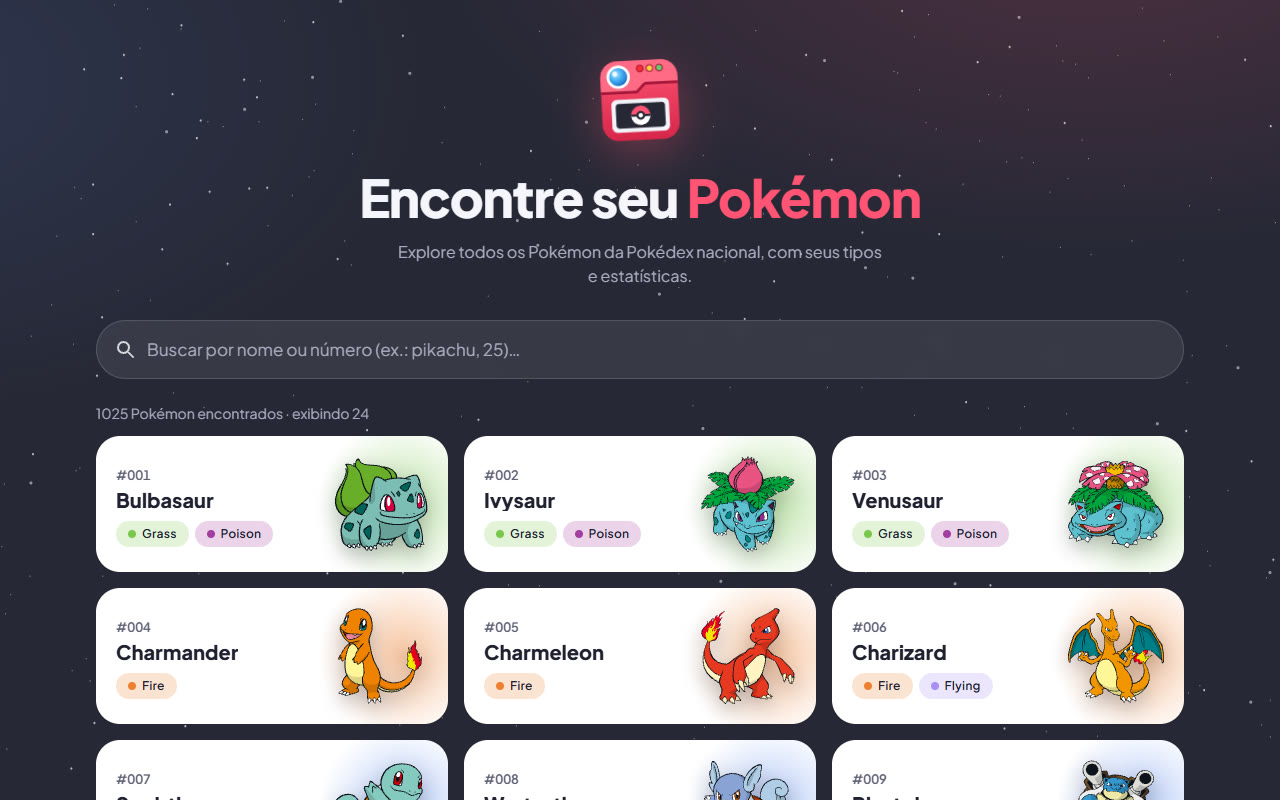
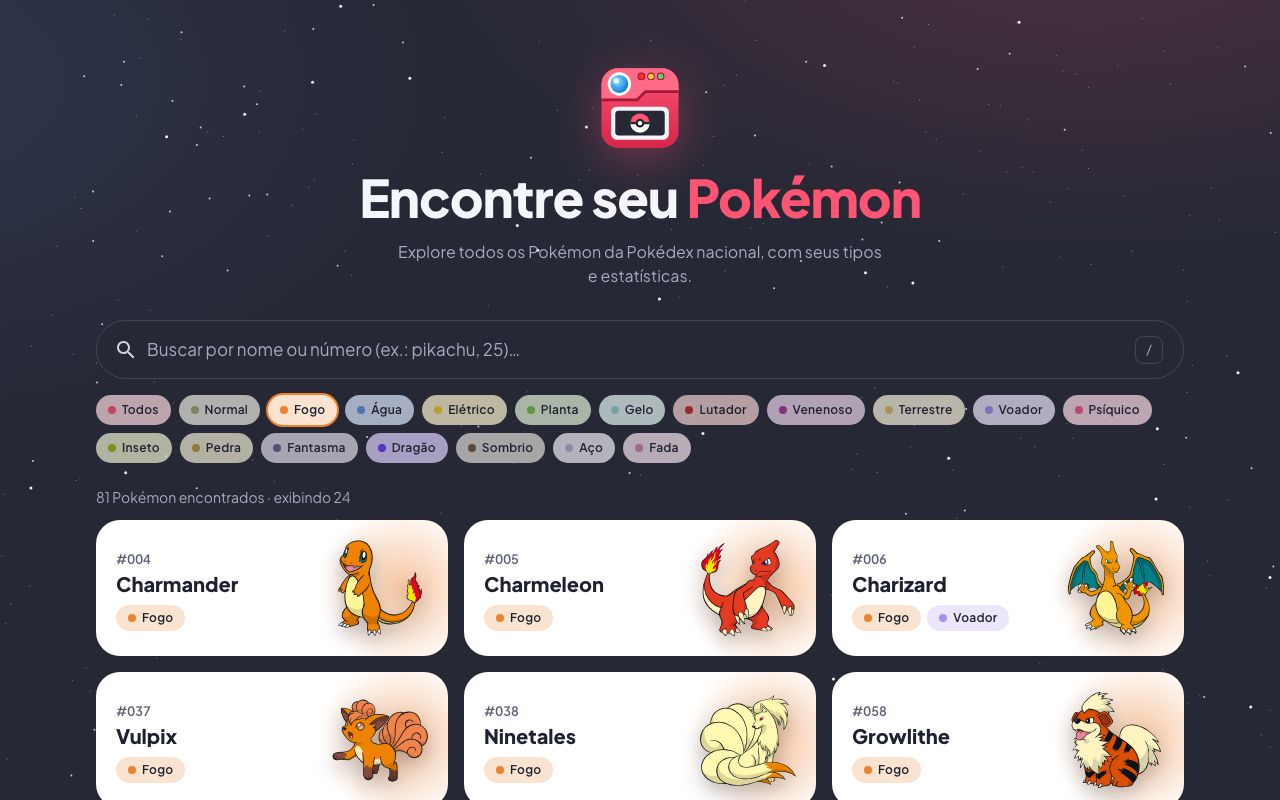
docs: describe the new features, e2e tests and Vercel deploy in the README
Also refreshes both screenshots.

diff --git a/README.md b/README.md
@@ -3,26 +3,31 @@
 
   # Pokédex
 
-  Browse every Pokémon — all 1025 of the National Pokédex — with types and base stats.<br>
+  Browse every Pokémon — all 1025 of the National Pokédex — with types, base stats and evolutions.<br>
   Built with Angular and powered by the public [PokéAPI](https://pokeapi.co/). The UI is in Portuguese (pt-BR).
 
-  **[Open the live app →](https://djbrunoramon.github.io/pokedex/)**
+  **[Open the live app →](https://pokedex.mocah.com.br/)** · [GitHub Pages mirror](https://djbrunoramon.github.io/pokedex/)
 </div>
 
 <p align="center">
-  <img src=".github/assets/home.jpg" alt="Home page: search box and a grid of Pokémon cards coloured by type, over an animated starry background" width="49%">
-  <img src=".github/assets/details.jpg" alt="Details page for Charizard: type-coloured hero with height and weight, and a panel with base stat bars" width="49%">
+  <img src=".github/assets/home.jpg" alt="Home page filtered by the Fire type: search box, a row of type filters and a grid of Pokémon cards coloured by type, over an animated starry background" width="49%">
+  <img src=".github/assets/details.jpg" alt="Details page for Charizard: previous and next buttons, type-coloured hero with height and weight, base stat bars, an About panel with category, description and abilities, and the evolution chain" width="49%">
 </p>
 
 ## Features
 
 - **Every Pokémon, with infinite scroll** — the full species index loads in one request; cards are rendered 24 at a time as you scroll, and each card fetches its own details (with a placeholder while it loads).
-- **Search across the whole Pokédex** — by name (`chu` finds Pikachu, Raichu, Pichu…) or by number (`25`, `#150`), including Pokémon that aren't on screen yet.
-- **Shareable searches** — the search lives in the URL (`?q=char`), so it survives going to a details page and back, a refresh, or a shared link.
-- **Details page** — Pokédex number, types, height and weight, and base stats with proportional bars and their total.
-- **Loading, empty and error states** everywhere, with a *retry* when the API is unreachable.
-- **Polished, accessible UI** — cards and pages coloured by type, an animated starry sky, keyboard focus styles, screen-reader labels and announcements, and `prefers-reduced-motion` support.
-- **Lean networking** — details are cached per Pokémon, requests nobody waits for are cancelled, and the search is debounced.
+- **Search across the whole Pokédex** — by name (`chu` finds Pikachu, Raichu, Pichu…) or by number (`25`, `#150`), including Pokémon that aren't on screen yet. Press <kbd>/</kbd> to jump to the search box and the × button to clear it; it stays at the top while you scroll.
+- **Forgiving search** — a typo with no exact match suggests look-alike names (`pikachuu` → *Você quis dizer:* Pikachu).
+- **Filter by type** — the 18 types, in Portuguese, combine with the search; each type on a details page links to the filtered list.
+- **Shareable state** — the search and the type live in the URL (`?q=char&tipo=fire`), so they survive a refresh or a shared link.
+- **Coming back where you left off** — *Voltar* returns to the list with the same cards loaded and the same scroll position.
+- **Details page** — Pokédex number, types, height and weight, base stats with proportional bars and their total, category, Pokédex description and abilities (hidden one marked), and a clickable evolution chain (branches such as Eevee's side by side). Previous/next buttons, also on the <kbd>←</kbd> <kbd>→</kbd> keys, browse the Pokédex.
+- **Loading, empty and error states** everywhere, with a *retry* when the API is unreachable, and a *page not found* for unknown URLs.
+- **Polished, accessible UI** — cards and pages coloured by type, an animated starry sky, keyboard focus styles, screen-reader labels and announcements, a back-to-top button, and `prefers-reduced-motion` support.
+- **Lean networking** — details, types and evolution chains are cached, requests nobody waits for are cancelled, and the search is debounced.
+
+> The PokéAPI has no Portuguese texts, so the category, description and ability names are shown in English (marked `lang="en"`). Types and stats are translated by the app.
 
 ## Tech stack
 
@@ -30,7 +35,7 @@
 - [RxJS](https://rxjs.dev/) for the HTTP layer
 - TypeScript 6 in strict mode, with typed PokéAPI responses
 - SCSS with design tokens (CSS custom properties)
-- [Vitest](https://vitest.dev/) for unit tests
+- [Vitest](https://vitest.dev/) for unit tests, [Playwright](https://playwright.dev/) for end-to-end tests
 
 ## Requirements
 
@@ -54,6 +59,7 @@ Then open `http://localhost:4200/`. The app reloads automatically when you chang
 | `npm run build`        | Production build to `dist/pokedex/browser/`                         |
 | `npm run watch`        | Incremental development build                                       |
 | `npm test`             | Run the unit tests with Vitest                                      |
+| `npm run test:e2e`     | Run the end-to-end tests with Playwright (see [Testing](#testing))  |
 | `npm run build-github` | Production build into `docs/` for GitHub Pages (see [Deployment](#deployment)) |
 
 ## Project structure
@@ -65,39 +71,63 @@ src/
 │   ├── service/         # PokeApiService — the only API layer (index, cached details)
 │   ├── pages/
 │   │   ├── home/        # Hero + Pokémon list
-│   │   └── details/     # Pokémon details and stats
+│   │   ├── details/     # Pokémon details, previous/next
+│   │   └── not-found/   # Page for unknown URLs
 │   ├── shared/
-│   │   ├── poke-list/   # Search, paging/infinite scroll, loading/empty/error states
+│   │   ├── poke-list/   # Search, type filter, look-alike names, infinite scroll, states
 │   │   ├── poke-card/   # A card that loads its own Pokémon
-│   │   ├── poke-search/ # Debounced search box
+│   │   ├── poke-search/ # Debounced search box with clear button and "/" shortcut
+│   │   ├── poke-stats/  # Base stats with bars and total
+│   │   ├── poke-about/  # Category, description and abilities
+│   │   ├── poke-evolution/ # Evolution chain
 │   │   ├── poke-footer/ # Credits
 │   │   ├── directives/  # InViewportDirective (infinite scroll trigger)
-│   │   └── pipes/       # DexNumberPipe (#001), SpritePipe (artwork fallback)
+│   │   └── pipes/       # DexNumberPipe (#001), SpritePipe (artwork fallback), TypeNamePipe (pt-BR)
 │   ├── app.config.ts
 │   └── app.routes.ts
 ├── assets/              # Icons, illustrations
 ├── config-scss/         # Global SCSS: tokens, reset, type colours, starfield, animations…
 └── styles.scss
+e2e/                     # Playwright end-to-end tests (*.e2e.ts)
 scripts/github-pages.mjs # Post-build step for the GitHub Pages deploy
 docs/                    # Built site served by GitHub Pages
 ```
 
 ## Testing
 
+### Unit tests
+
 ```bash
 npm test
 ```
 
-Specs live next to their subject (`*.spec.ts`) and cover the API service (caching, cancellation), the list (paging, search, URL sync, states), cards, details, search box, the infinite-scroll directive and the pipes. To run a single file or test:
+Specs live next to their subject (`*.spec.ts`) and cover the API service (caching, cancellation), the list (paging, search, type filter, look-alike names, URL sync, restoring the loaded cards, states), cards, the details page and its panels, the search box, the infinite-scroll directive and the pipes. To run a single file or test:
 
 ```bash
 npx ng test --include='**/poke-list.component.spec.ts'
 npx ng test --filter='searches the whole index'
 ```
 
+### End-to-end tests
+
+```bash
+npx playwright install chromium   # once
+npm run test:e2e
+```
+
+The suite in `e2e/` drives Chromium through search, the type filter, the details page and coming back to the list. It uses the dev server (a running `npm start` is reused, otherwise one is started) and the real PokéAPI, so it needs internet access. To test a deployed site instead:
+
+```bash
+E2E_BASE_URL=https://pokedex.mocah.com.br npm run test:e2e
+```
+
+A failed test keeps a trace in `test-results/`; open the report with `npx playwright show-report`.
+
 ## Deployment
 
-The app is published to GitHub Pages from the `docs/` folder on `main`. To deploy:
+The live app, [pokedex.mocah.com.br](https://pokedex.mocah.com.br/), is built and published by Vercel on every push to `main` (default `npm run build`, base href `/`).
+
+A mirror is published to GitHub Pages from the `docs/` folder on `main`. To update it:
 
 ```bash
 npm run build-github   # production build into docs/ with base href /pokedex/
